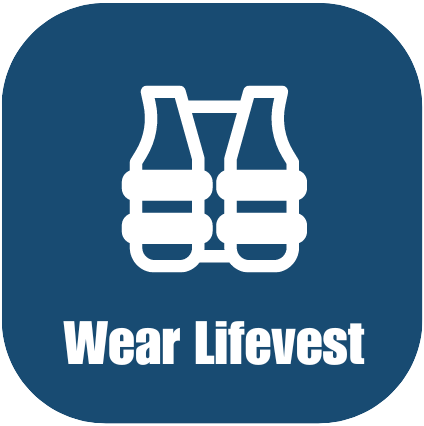
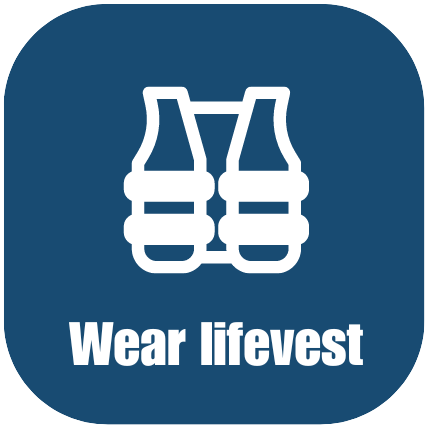
Update:
- added scan script
- put all the scripts in the scripts folder
- added new icons for the lifevest and scanning are

diff --git a/Assets/Scripts/FixedInflateButton.cs b/Assets/Scripts/FixedInflateButton.cs
@@ -1,0 +1,20 @@
+using System.Collections;
+using System.Collections.Generic;
+using UnityEngine;
+using UnityEngine.EventSystems;
+
+public class FixedInflateButton : MonoBehaviour, IPointerUpHandler, IPointerDownHandler
+{
+    [HideInInspector]
+    public bool Pressed;
+    public void OnPointerDown(PointerEventData eventData)
+    {
+        Pressed = true;
+    }
+
+    public void OnPointerUp(PointerEventData eventData)
+    {
+        Pressed = false;
+
+    }
+}

diff --git a/Assets/Scripts/FixedScanButton.cs b/Assets/Scripts/FixedScanButton.cs
@@ -1,0 +1,21 @@
+using System.Collections;
+using System.Collections.Generic;
+using UnityEngine;
+using UnityEngine.EventSystems;
+
+public class FixedScanButton : MonoBehaviour, IPointerUpHandler, IPointerDownHandler
+{
+    [HideInInspector]
+    public bool Pressed;
+    public void OnPointerDown(PointerEventData eventData)
+    {
+        Pressed = true;
+    }
+
+    public void OnPointerUp(PointerEventData eventData)
+    {
+        Pressed = false;
+
+    }
+}
+
